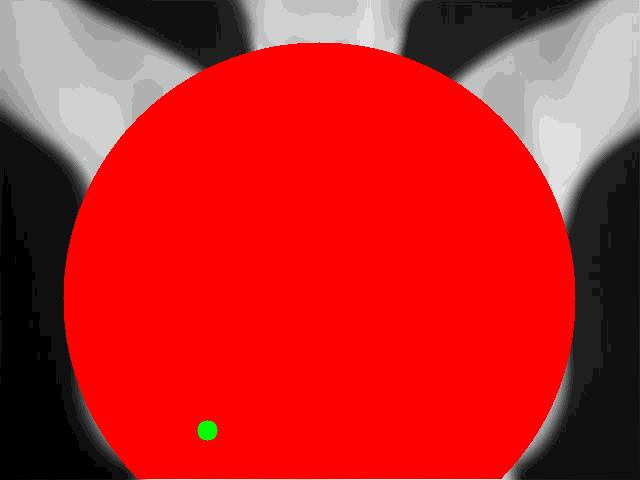
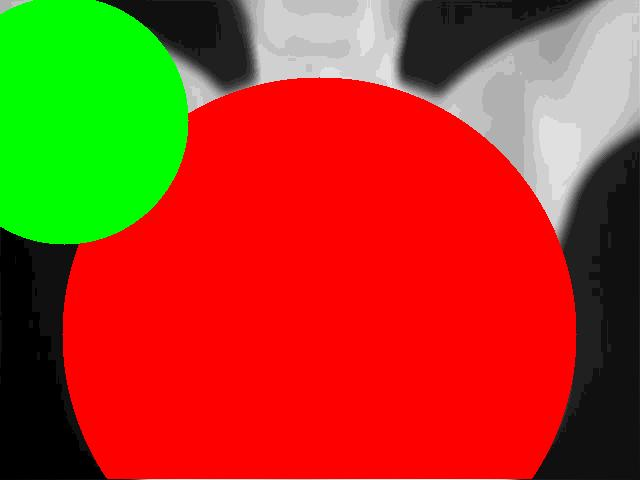
Mudança de binário para código Gray

diff --git a/src/GATIS/Circle.java b/src/GATIS/Circle.java
@@ -19,35 +19,22 @@ public class Circle {
 	Circle(int x, int y, int r){			//constructor with decimal numbers parameters 
 		
 		cX = x;
-		bX = MyMath.decToBinary(cX);
+		bX = MyMath.DectoGray(cX);
 		cY = y;
-		bY = MyMath.decToBinary(cY);
+		bY = MyMath.DectoGray(cY);
 		radius = r;			
-		bR = MyMath.decToBinary(radius);
+		bR = MyMath.DectoGray(radius);
 
 	}
 	
 	Circle(int[] x, int[] y, int[] r){		//constructor with binary numbers parameters 
 		
-/*
-		if(MyMath.binaryToDecimal(r) > 175) {
-			r = MyMath.decToBinary(200);
-		}
-		if(MyMath.binaryToDecimal(r) < 50) {
-			r = MyMath.decToBinary(100);
-		}
-		if(MyMath.binaryToDecimal(y) < 125) {
-			y = MyMath.decToBinary(125);
-		}
-		if(MyMath.binaryToDecimal(y) > 420) {
-			y = MyMath.decToBinary(420);
-		}
-	*/	
-		cX = MyMath.binaryToDecimal(x);
+	
+		cX = MyMath.GraytoDec(x);
 		bX = x;
-		cY = MyMath.binaryToDecimal(y);
+		cY = MyMath.GraytoDec(y);
 		bY = y;
-		radius = MyMath.binaryToDecimal(r);			
+		radius = MyMath.GraytoDec(r);			
 		bR = r;
 	}
 	
@@ -89,17 +76,17 @@ public class Circle {
 	//setters
 	void setX(int[] x) {
 		bX = x;
-		cX = MyMath.binaryToDecimal(x);
+		cX = MyMath.GraytoDec(x);
 	}
 	
 	void setY(int[] y) {
 		bY = y;
-		cY = MyMath.binaryToDecimal(y);
+		cY = MyMath.GraytoDec(y);
 	}
 	
 	void setR(int[] r) {
 		bR = r;
-		radius = MyMath.binaryToDecimal(r);
+		radius = MyMath.GraytoDec(r);
 	}
 	
 	void setPosition(int x , int y) {
@@ -109,7 +96,7 @@ public class Circle {
 	
 	void setRadius(int r) {
 		radius = r;
-		bR = MyMath.decToBinary(r);
+		bR = MyMath.DectoGray(r);
 	}
 	
 	public static void main(String[]args) {

diff --git a/src/GATIS/Individual.java b/src/GATIS/Individual.java
@@ -86,10 +86,8 @@ public class Individual implements Comparable<Object>{
 				
 				int interw;		
 				int[] vol = new int[4];
-				int[] volR=new int[4];
 				
 				vol = getPixelVol(img);
-				//volR =getPixelVolRings(img);
 				
 				int inter = interceptVol(img);
 				
